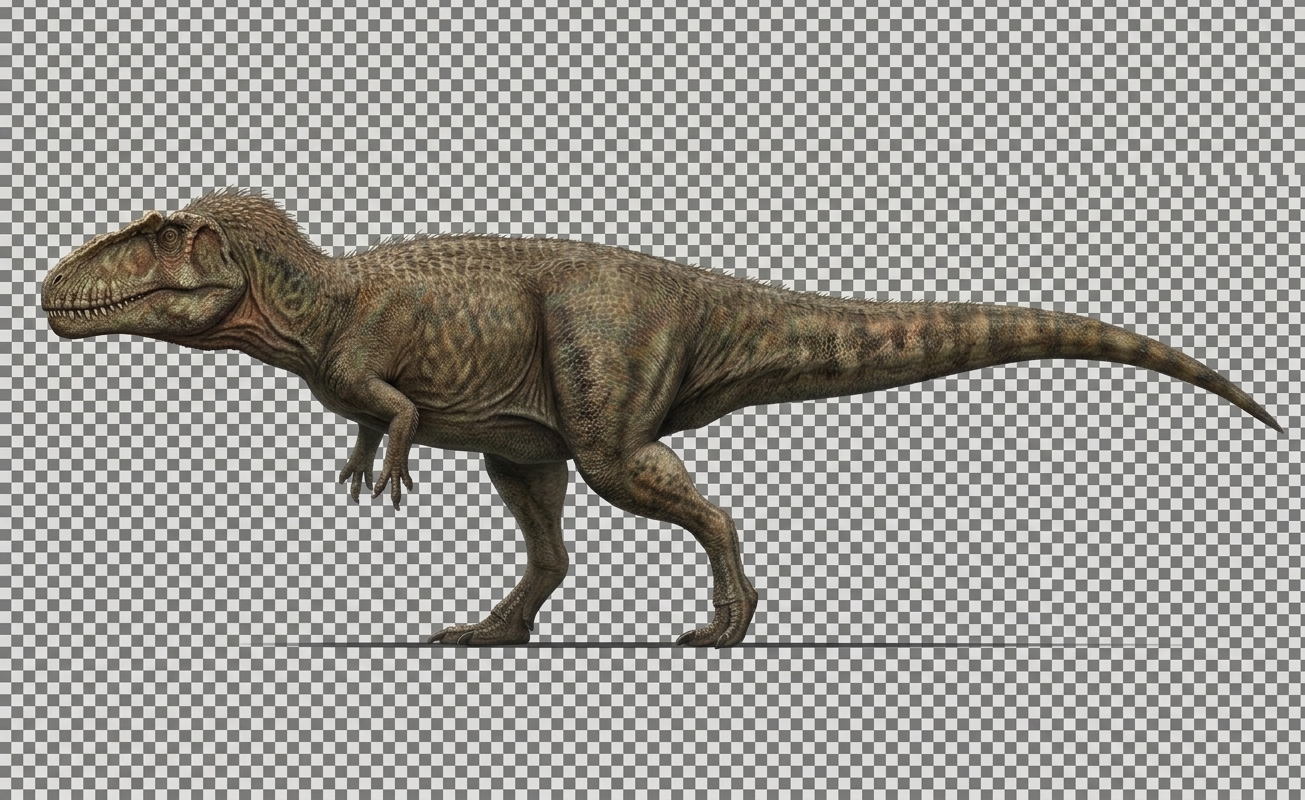
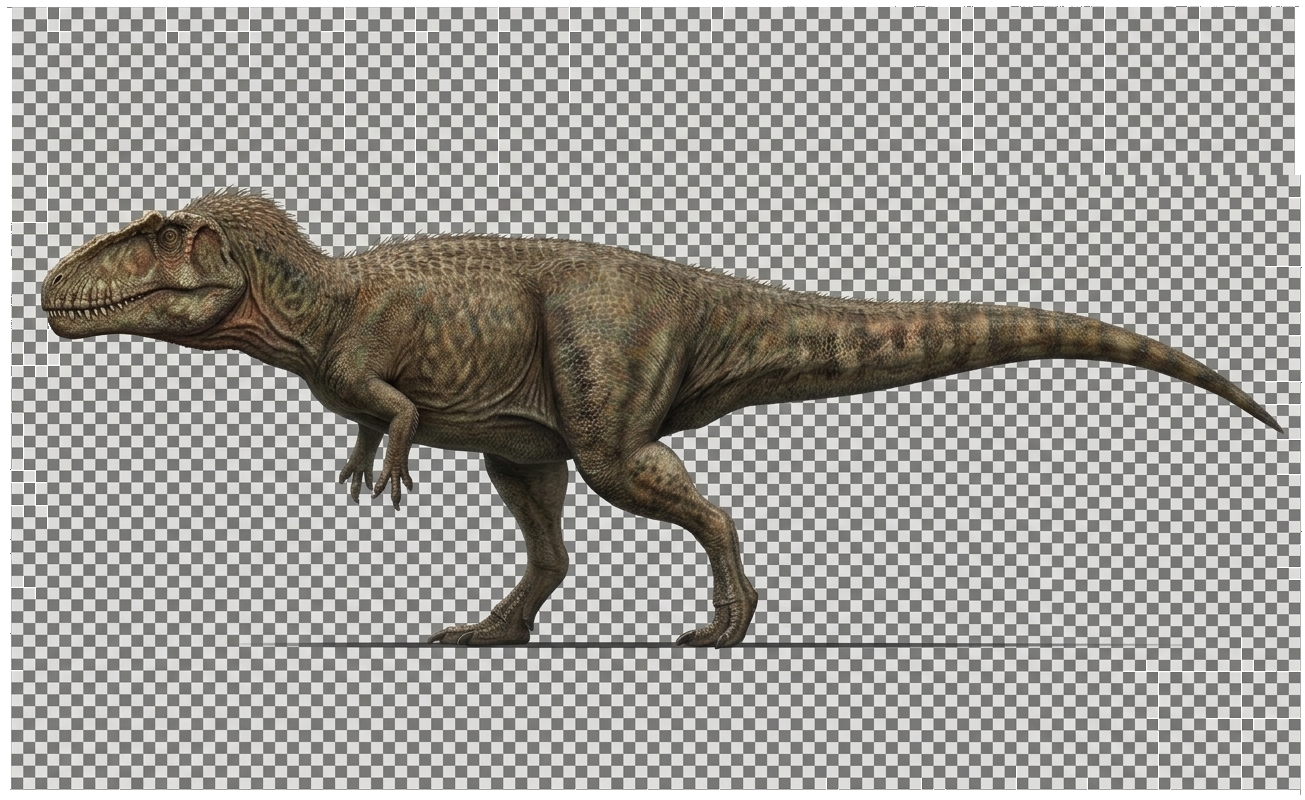
fix(comparison): strip fake opaque background from generated dino art
Gemini's "transparent background" often isn't real alpha — it paints a
flat light-gray backdrop into fully opaque pixels, which showed as a gray
box behind each dino on the comparison screen. Adds scripts/strip-bg.js,
a neighbor-chain flood fill that removes the background (handles vignette
gradients, not just flat color) and re-runs it on the 10 already-generated
images. Brachiosaurus/Diplodocus regressed to placeholders (uncommitted
real versions were lost to a stray git checkout) and need re-generating.

Changed region(s): [[0.0, 0.0, 1.0, 1.0]]

diff --git a/scripts/strip-bg.js b/scripts/strip-bg.js
@@ -1,0 +1,94 @@
+#!/usr/bin/env node
+// Gemini a "transparent background" kérésre gyakran nem valódi alfa-csatornát ad,
+// hanem egy sík világosszürke/fehér hátteret fest bele a pixelekbe (opak PNG,
+// alpha=255 mindenhol) — ez látszik a Méretösszehasonlító képernyőn szürke
+// dobozként a dínó mögött. Ez a szkript a sarok-pixel színéből indulva
+// flood-fill-lel megkeresi az összefüggő háttérrégiót (csak a szélekhez
+// kapcsolódó, hasonló színű pixeleket — a dínó testén lévő hasonló árnyalatú
+// foltokat nem bántja, mert azok nincsenek összekötve a szegéllyel), és
+// alpha=0-ra állítja, lágy szegéllyel a levágás túl kemény éle ellen.
+//
+// Használat:
+//   node scripts/strip-bg.js assets/images/comparison/Tyrannosaurus.png
+//   node scripts/strip-bg.js assets/images/comparison/*.png   (shell glob)
+const sharp = require('sharp');
+const path = require('path');
+
+const STEP_THRESHOLD = 22; // szín-távolság a SZOMSZÉD (már háttérnek jelölt) pixeltől
+
+async function stripOne(filePath) {
+  const img = sharp(filePath).ensureAlpha();
+  const { data, info } = await img.raw().toBuffer({ resolveWithObject: true });
+  const { width, height, channels } = info;
+  const idx = (x, y) => (y * width + x) * channels;
+
+  const distTo = (i, r, g, b) => {
+    const dr = data[i] - r, dg = data[i + 1] - g, db = data[i + 2] - b;
+    return Math.sqrt(dr * dr + dg * dg + db * db);
+  };
+
+  // BFS flood-fill a szélektől befelé, de a színt mindig az ÉPPEN feldolgozott
+  // (már háttérnek jelölt) szomszédhoz hasonlítjuk, nem egy fix mag-színhez —
+  // így egy sík, de fokozatosan sötétedő/világosodó (vignette) hátteret is
+  // végig bejár, miközben a dínó éles kontúrján megáll.
+  const visited = new Uint8Array(width * height);
+  const isBg = new Uint8Array(width * height);
+  const queue = [];
+  for (let x = 0; x < width; x++) { queue.push(x, 0); queue.push(x, height - 1); }
+  for (let y = 0; y < height; y++) { queue.push(0, y); queue.push(width - 1, y); }
+  for (let i = 0; i < queue.length; i += 2) {
+    const p = queue[i + 1] * width + queue[i];
+    visited[p] = 1;
+    isBg[p] = 1;
+  }
+
+  let qi = 0;
+  while (qi < queue.length) {
+    const x = queue[qi++], y = queue[qi++];
+    const p = y * width + x;
+    const i0 = idx(x, y);
+    const r = data[i0], g = data[i0 + 1], b = data[i0 + 2];
+    const neighbors = [[x + 1, y], [x - 1, y], [x, y + 1], [x, y - 1]];
+    for (const [nx, ny] of neighbors) {
+      if (nx < 0 || ny < 0 || nx >= width || ny >= height) continue;
+      const np = ny * width + nx;
+      if (visited[np]) continue;
+      visited[np] = 1;
+      const d = distTo(idx(nx, ny), r, g, b);
+      if (d <= STEP_THRESHOLD) {
+        isBg[np] = 1;
+        queue.push(nx, ny);
+      }
+    }
+  }
+
+  for (let p = 0; p < width * height; p++) {
+    if (isBg[p]) {
+      data[p * channels + channels - 1] = 0;
+    }
+  }
+
+  await sharp(data, { raw: { width, height, channels } })
+    .png()
+    .toFile(filePath + '.tmp.png');
+  const fs = require('fs');
+  fs.renameSync(filePath + '.tmp.png', filePath);
+  console.log(`OK: ${path.basename(filePath)}`);
+}
+
+async function main() {
+  const files = process.argv.slice(2);
+  if (files.length === 0) {
+    console.error('Adj meg legalább egy PNG útvonalat.');
+    process.exitCode = 1;
+    return;
+  }
+  for (const f of files) {
+    await stripOne(f);
+  }
+}
+
+main().catch((e) => {
+  console.error('Hiba:', e && e.message ? e.message : e);
+  process.exitCode = 1;
+});
